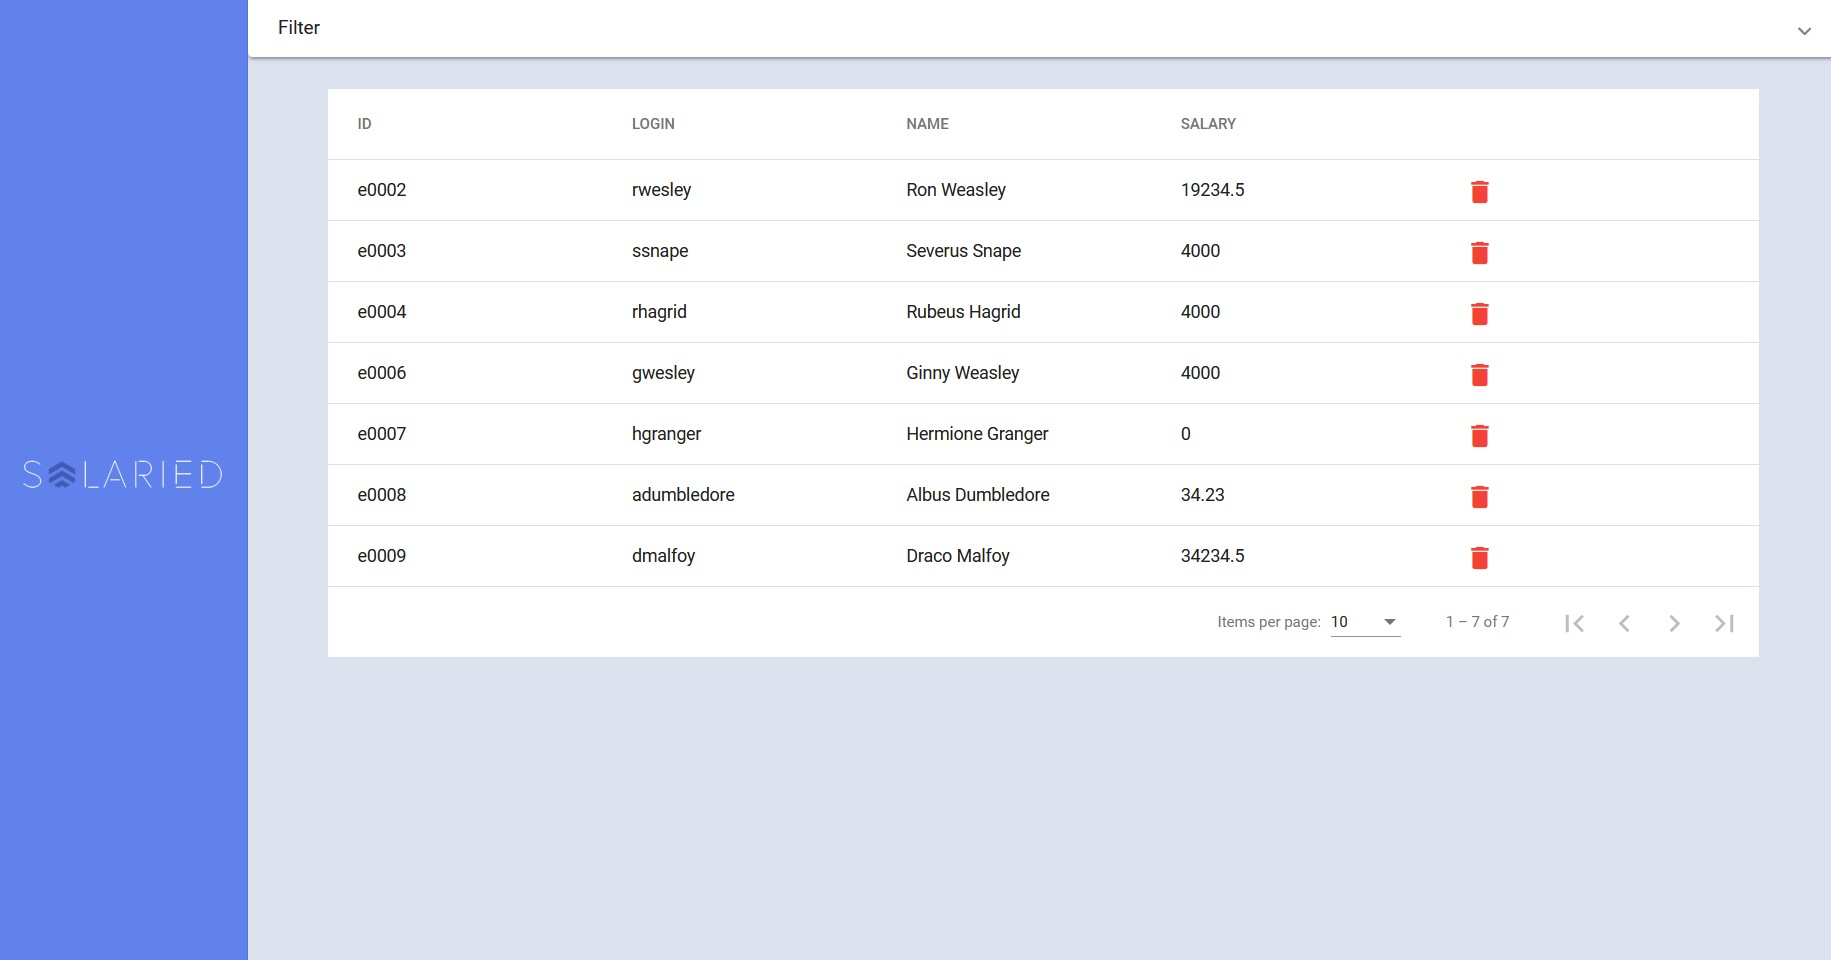
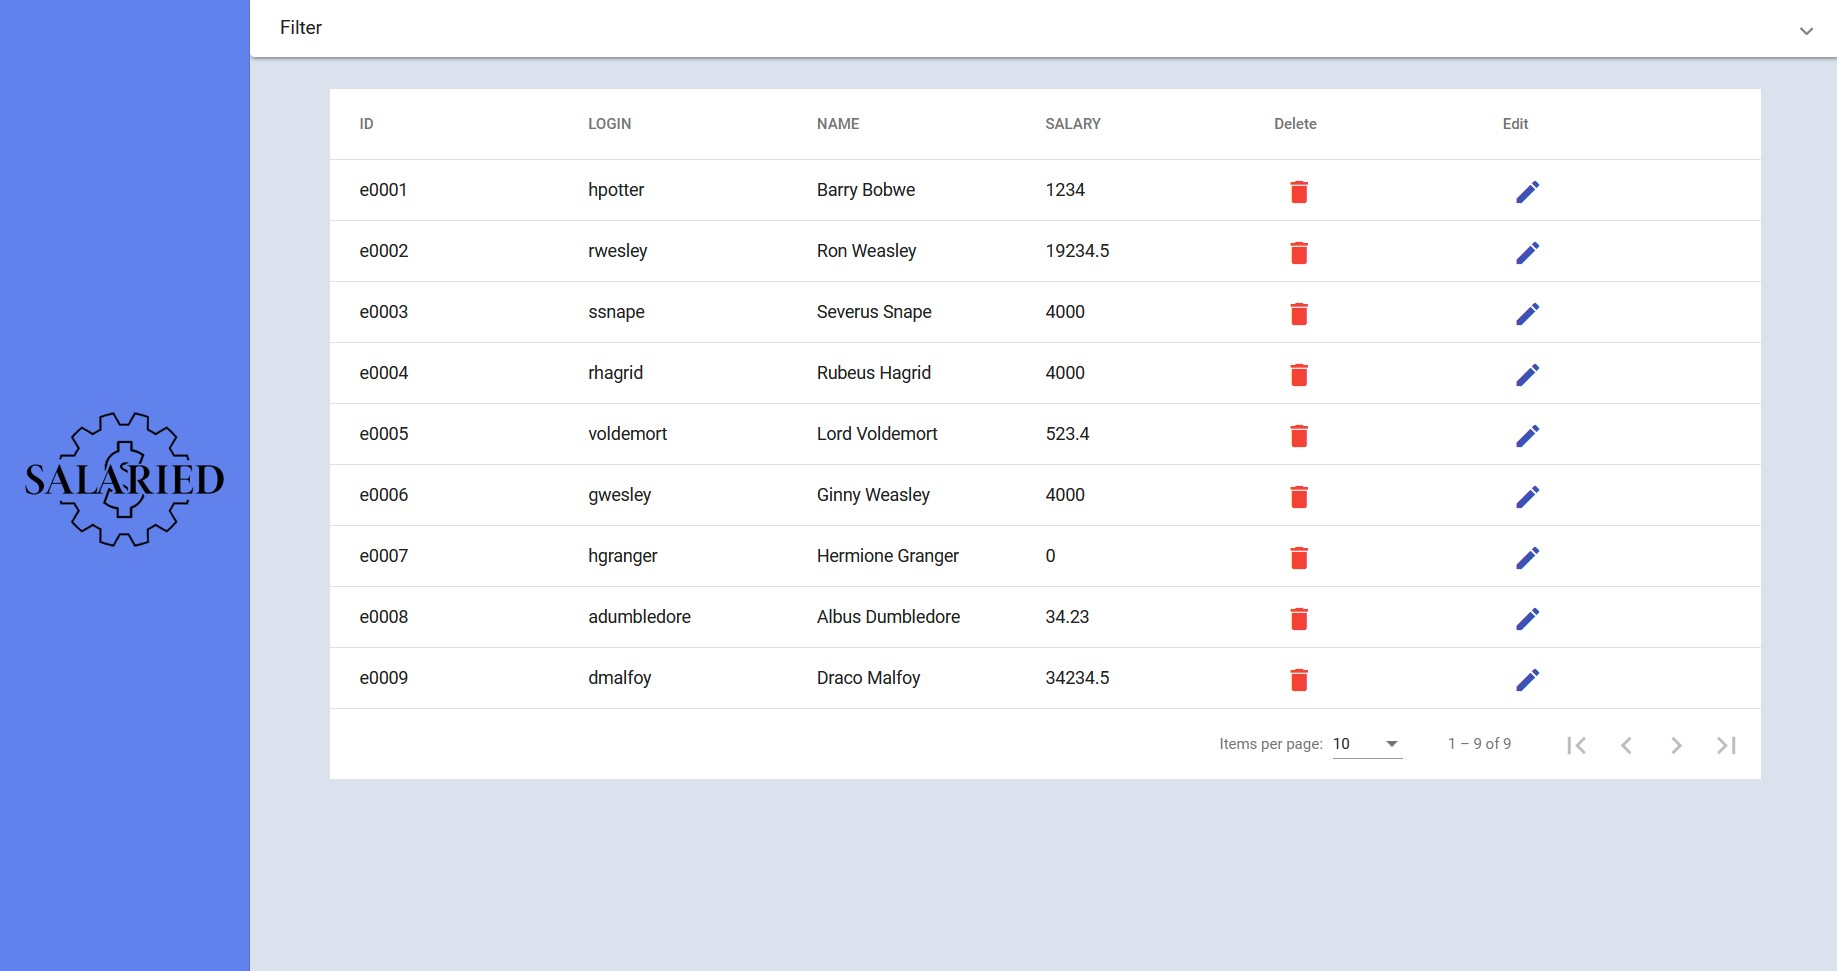
README updates

diff --git a/README.md b/README.md
@@ -53,7 +53,7 @@ http://localhost:4200/users
 You will be greeted with the homepage.
 ![homepage](/README-assets/US2-1.jpg)
 ### USER STORY 3
-I will not be submitting this User Story but CRUD implementation is part of my workflow in creating the back end. Thus it exists and works but not implemented in front-end.
+
 
 ***C***reate
 
@@ -64,20 +64,18 @@ I will not be submitting this User Story but CRUD implementation is part of my w
 
 
 ***U***pdate
-```
-PATCH http://localhost:8080/api/users/e0001
-```
-Using JSONPATCH dependency to effeciently carry out PATCH
-```
-[{
-    "op": "replace", 
-    "path": "/name",
-    "value": "Barry Bobber"
-}]
-```
-![PATCH in postman](/README-assets/US3-1.jpg)
+![update1](/README-assets/US3-1.jpg)
+- On Main Page, click on the edit button, a Dialog will pop up with the fields that are editable.
+
+![update2](/README-assets/US3-2.jpg)
+- After clicking Save, the list will be updated automatically.
+
 ***D***elete
-- As shown in picture, delete() displaying as a logo, will be asked to confirm deletion upon click.
+![delete1](/README-assets/US4-1.jpg)
+- On Main Page, click on the delete button, a Dialog will pop up asking for a confirmation for delete.
+
+![delete2](/README-assets/US4-2.jpg)
+- After clicking delete, the list will be updated automatically.
 ___
 ## **Bugs or Features to be implemented**
 1. ```.setAllowMissingColumnNames``` not working as intended in CSVFormat builder. Empty columns submitted into csv POST will appear as " " or value 0 in DB
